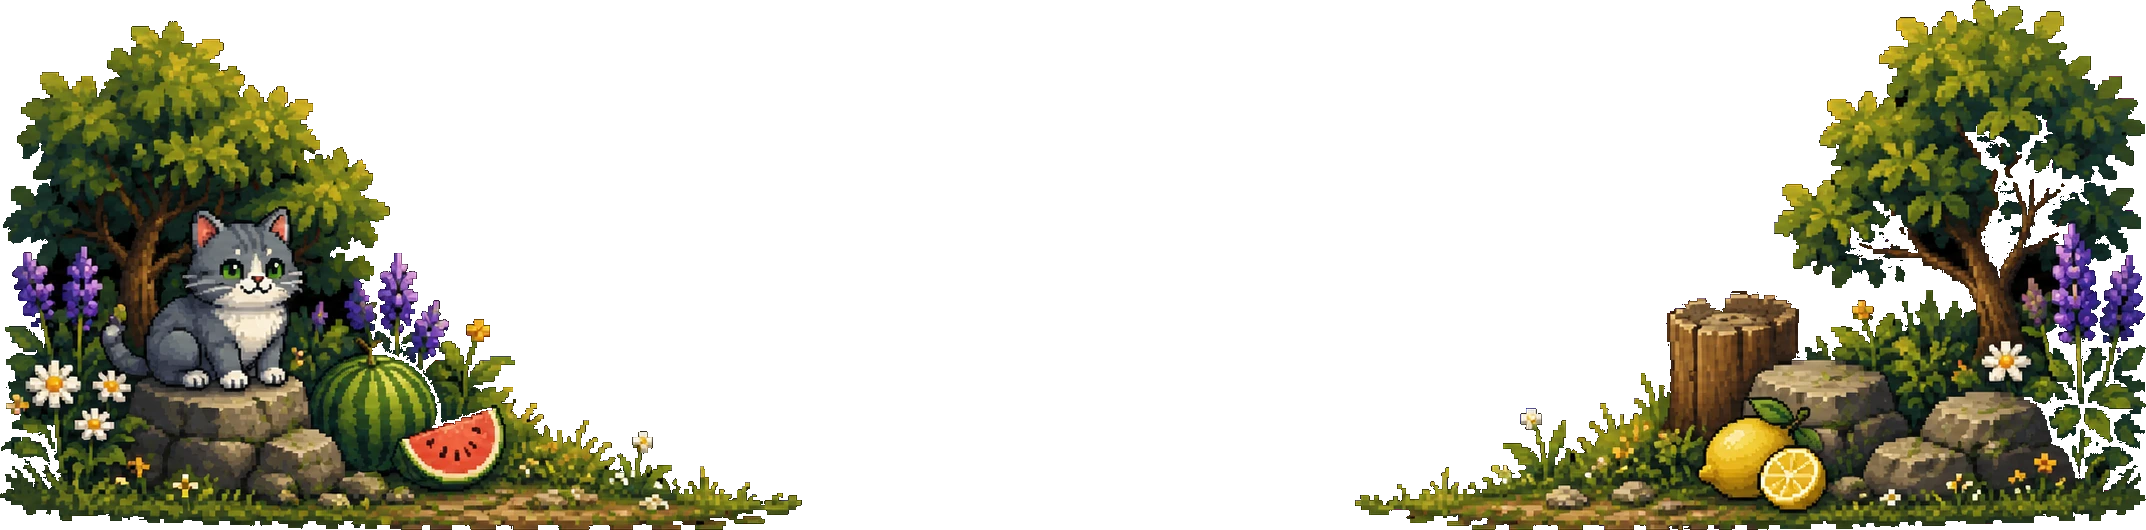
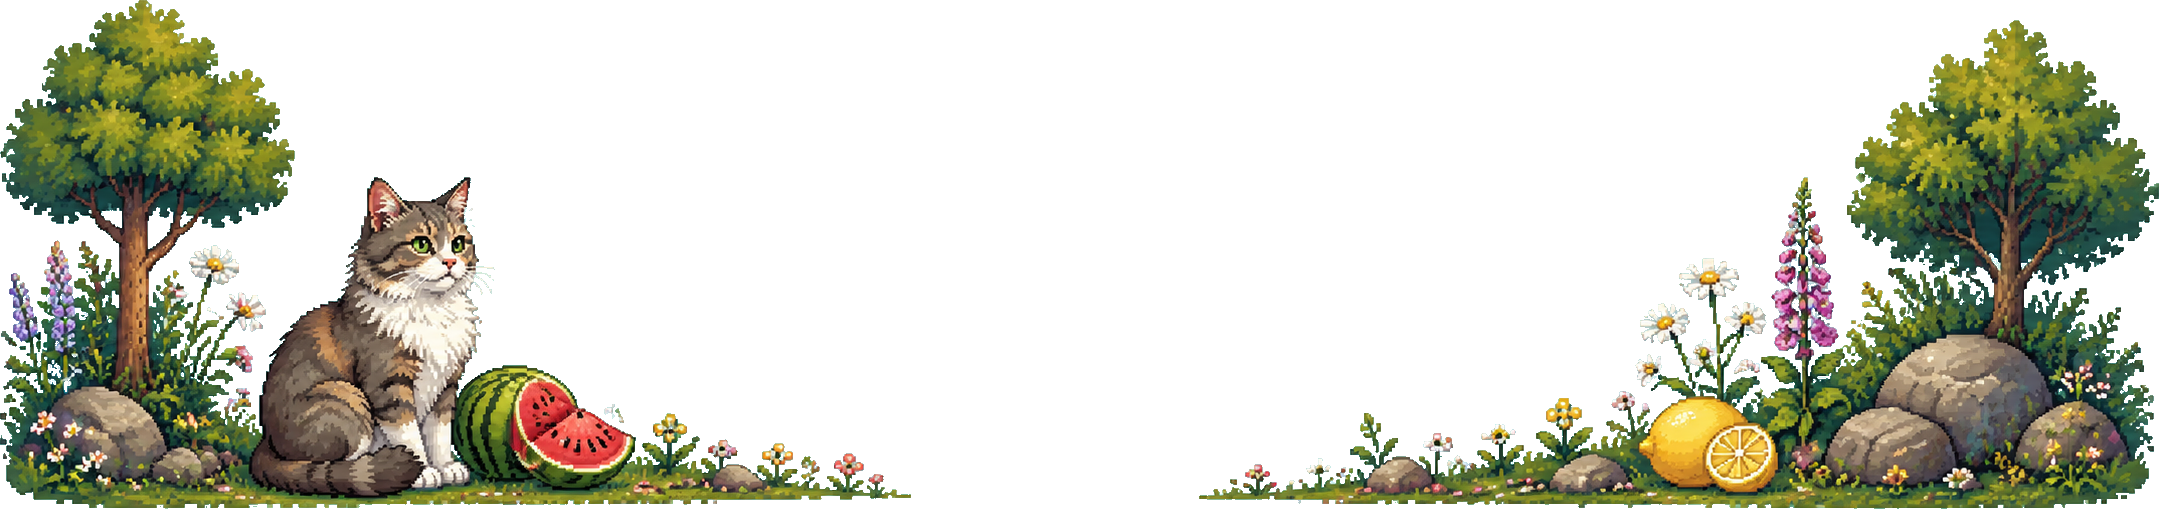
Footer
Adjusted

diff --git a/src/styles/global.css b/src/styles/global.css
@@ -181,13 +181,13 @@ main {
 
 .site-nav,
 .page-hero,
-.section,
-.footer-inner {
+.section {
 	width: min(100% - 32px, var(--max-width));
 	margin-inline: auto;
 }
 
-.hero {
+.hero,
+.footer-inner {
 	width: min(100% - 32px, var(--hero-max-width));
 	margin-inline: auto;
 }
@@ -851,23 +851,25 @@ h3 {
 }
 
 .site-footer {
+	--footer-frame-width: min(100% - 32px, var(--hero-max-width));
+	--footer-frame-trim: 0px;
 	position: relative;
 	isolation: isolate;
 	z-index: 0;
 	overflow: hidden;
 	background-color: var(--bg);
-	padding: 54px 0 28px;
+	padding: 64px 0 34px;
 }
 
 .site-footer::before {
 	content: "";
 	position: absolute;
 	left: 50%;
-	bottom: 0;
+	top: 0;
+	bottom: var(--footer-frame-trim);
 	z-index: 0;
-	width: min(100% - 32px, var(--max-width));
-	height: clamp(96px, 24.7vw, 300px);
-	background: url("/assets/images/footer-frame.webp") center bottom / contain no-repeat;
+	width: var(--footer-frame-width);
+	background: url("/assets/images/footer-frame.webp") center top / contain no-repeat;
 	filter: var(--footer-frame-filter);
 	image-rendering: pixelated;
 	opacity: var(--footer-frame-opacity);
@@ -1079,17 +1081,19 @@ h3 {
 		font-size: 15px;
 	}
 
-	.site-footer::before {
-		width: min(100% - 22px, var(--max-width));
-		height: 92px;
+	.site-footer {
+		--footer-frame-width: min(100% - 22px, var(--hero-max-width));
 	}
 
 	.site-nav,
-	.hero,
 	.page-hero,
-	.section,
-	.footer-inner {
+	.section {
 		width: min(100% - 22px, var(--max-width));
+	}
+
+	.hero,
+	.footer-inner {
+		width: min(100% - 22px, var(--hero-max-width));
 	}
 
 	.brand {
